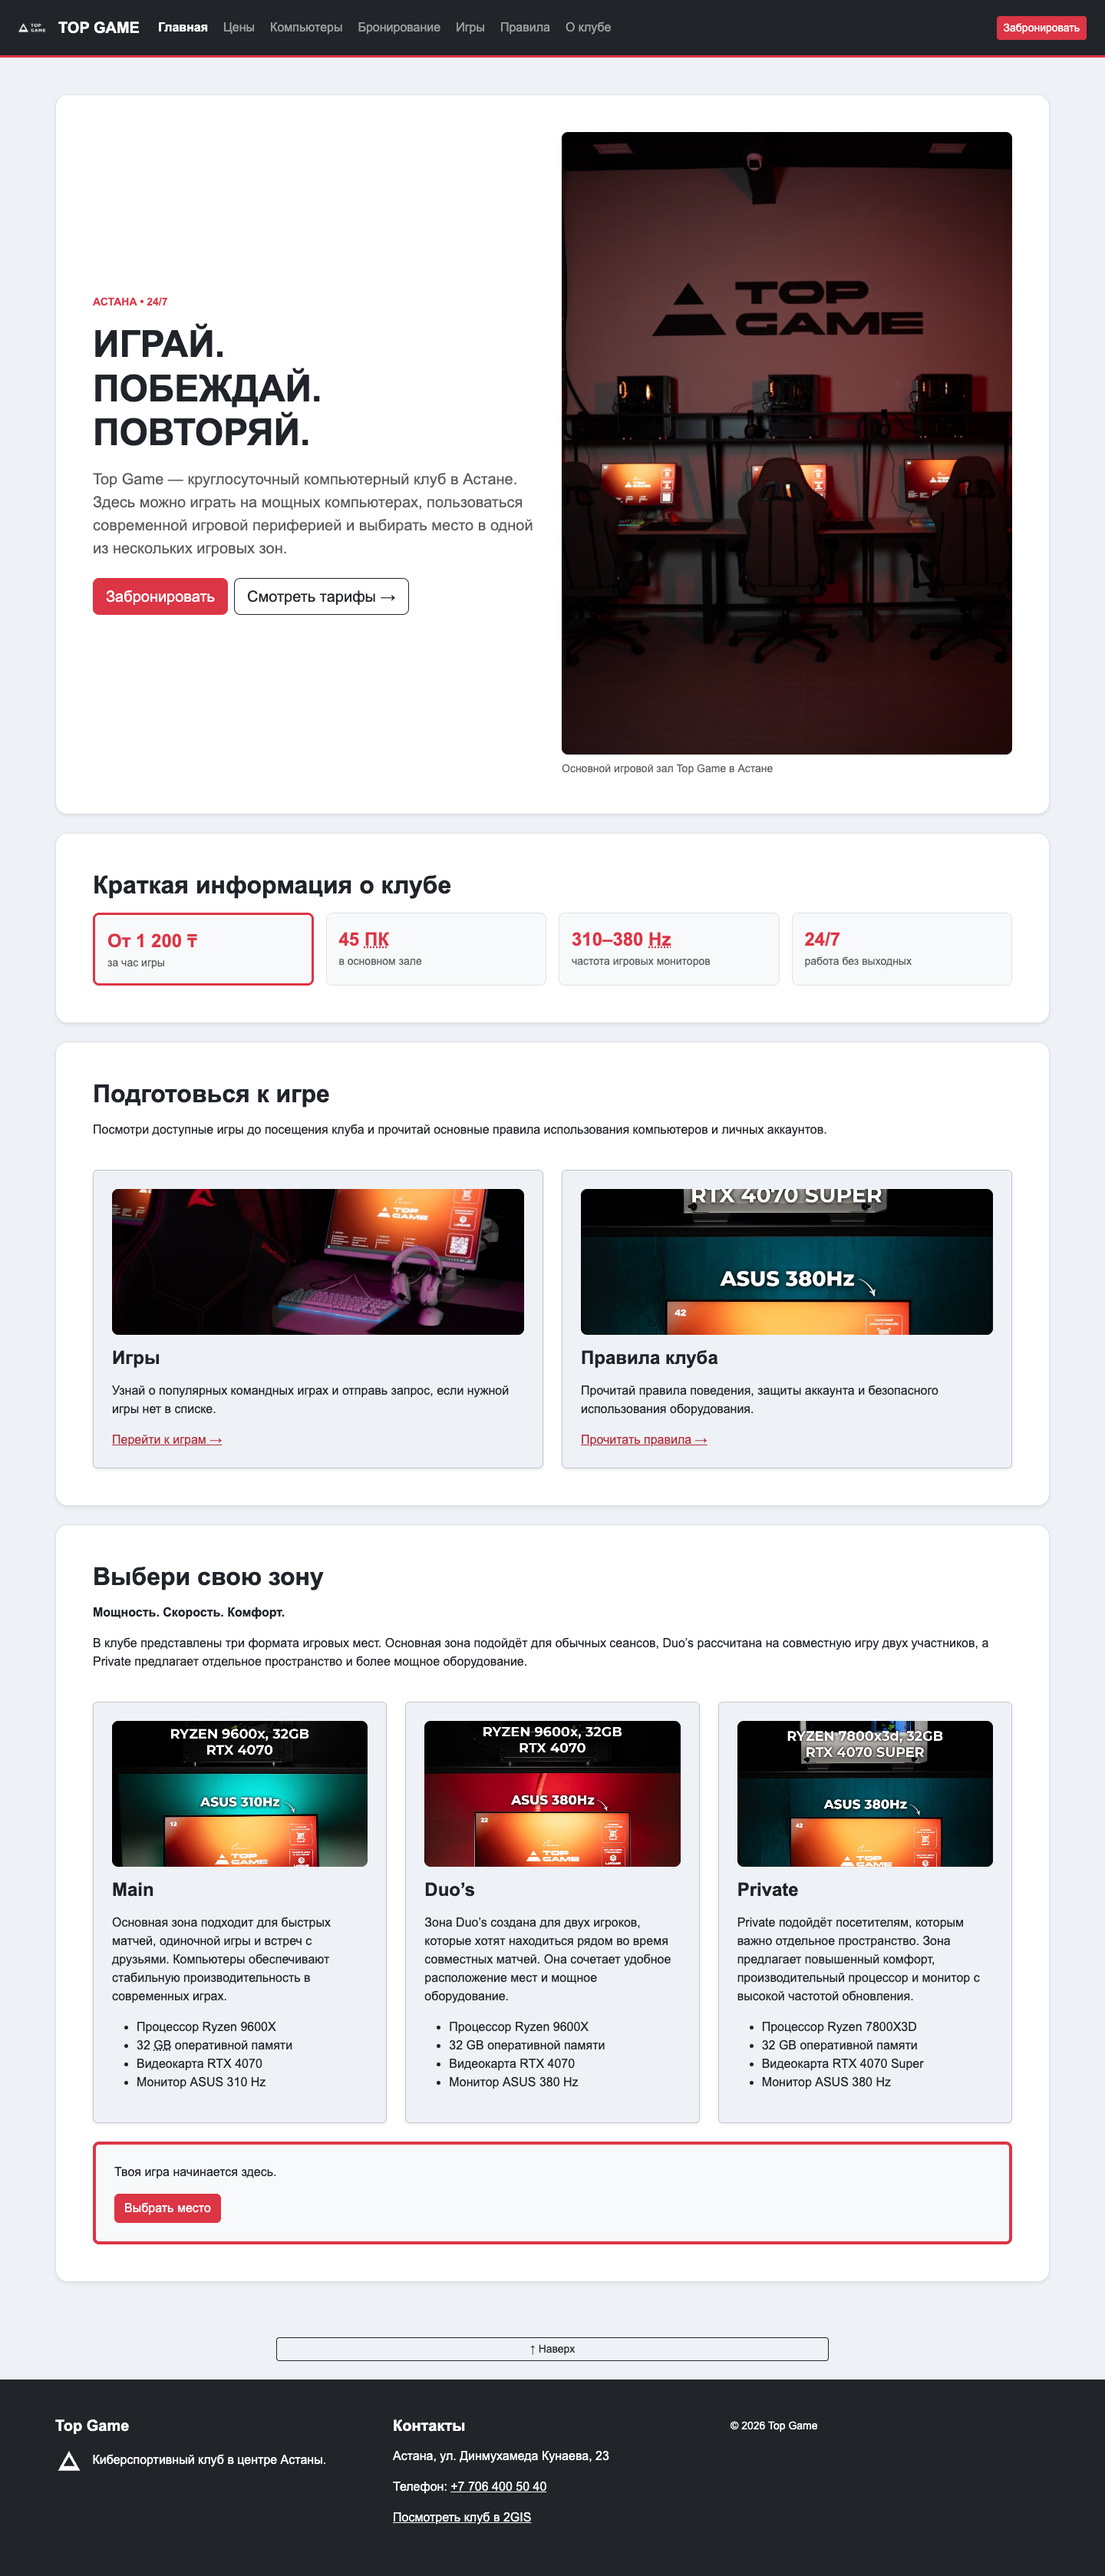
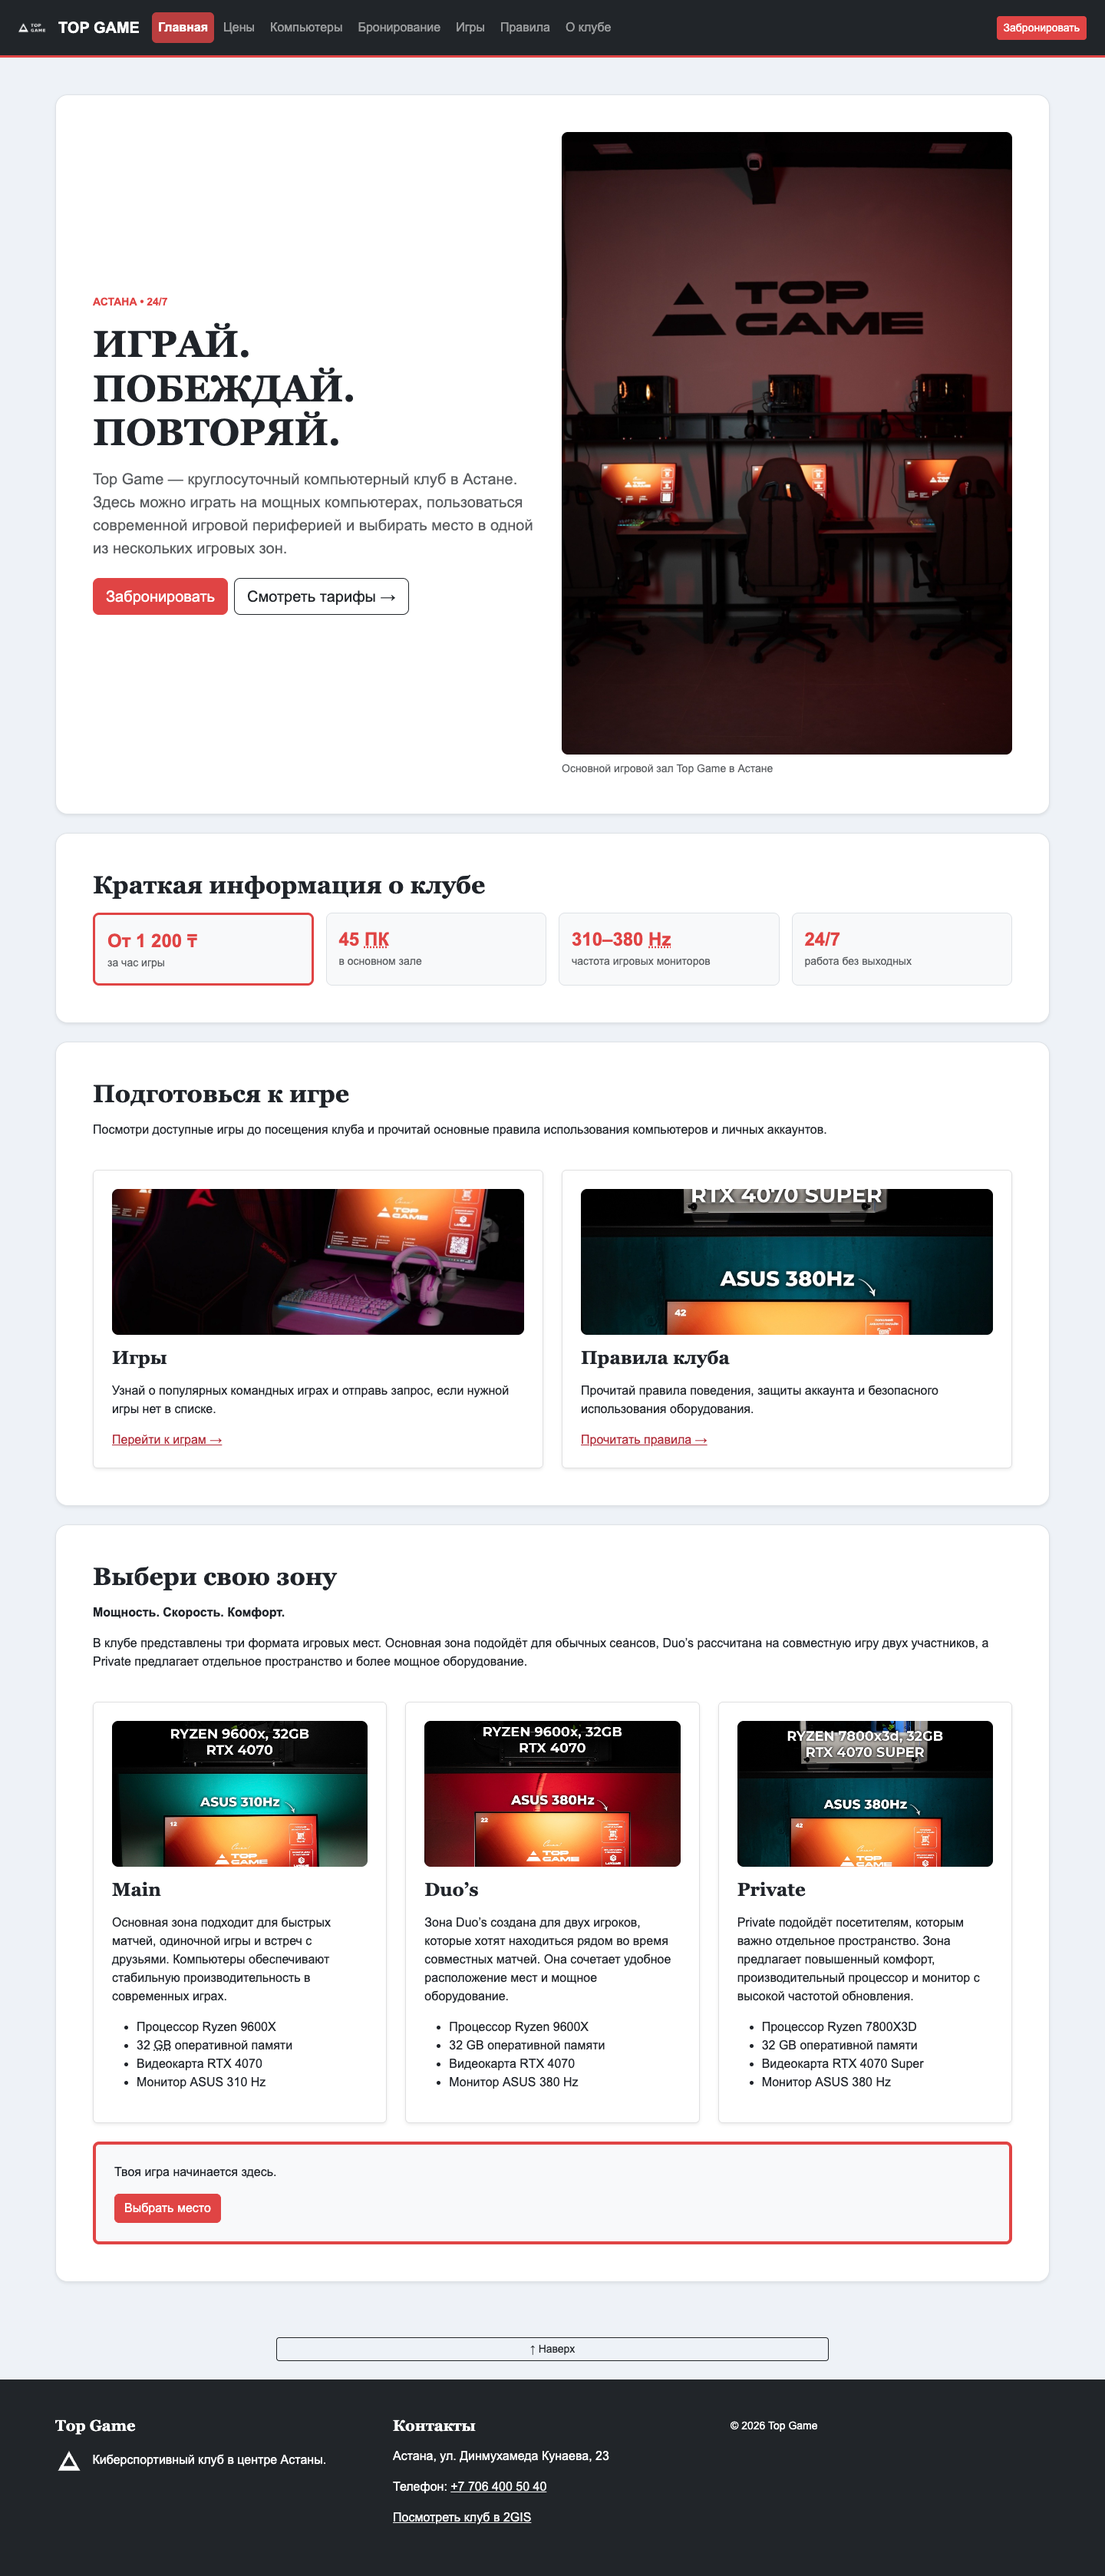
Expand Bootstrap brand styling

diff --git a/css/base.css b/css/base.css
@@ -1,13 +1,76 @@
-/* Bootstrap owns layout, spacing, typography scales, buttons and breakpoints.
-   Only the original club palette/font and a photo correction remain. */
+/* Bootstrap owns layout, spacing, typography scales and breakpoints.
+   These rules add the club's visual identity without rebuilding its grid. */
 :root {
     --bs-body-bg: #eef2f7;
     --bs-body-color: #20242a;
     --bs-body-font-family: Arial, Helvetica, sans-serif;
+    --bs-danger-rgb: 224, 68, 68;
     --bs-link-color: #b02a37;
     --bs-link-color-rgb: 176, 42, 55;
     --bs-link-hover-color: #842029;
     --bs-link-hover-color-rgb: 132, 32, 41;
+}
+
+/* Keep the club's original serif display font for headings. */
+h1,
+h2,
+h3,
+.card-title {
+    font-family: Georgia, "Times New Roman", serif;
+}
+
+/* Use the club red for primary actions and provide a clear hover shade. */
+.btn-danger {
+    --bs-btn-bg: #e04444;
+    --bs-btn-border-color: #e04444;
+    --bs-btn-hover-bg: #c93838;
+    --bs-btn-hover-border-color: #c93838;
+    --bs-btn-active-bg: #b02a37;
+    --bs-btn-active-border-color: #b02a37;
+}
+
+/* Match outlined actions to the same palette. */
+.btn-outline-danger {
+    --bs-btn-color: #b02a37;
+    --bs-btn-border-color: #b02a37;
+    --bs-btn-hover-bg: #b02a37;
+    --bs-btn-hover-border-color: #b02a37;
+}
+
+/* A subtle club-red highlight makes navigation states easy to spot. */
+.navbar .nav-link {
+    border-radius: var(--bs-border-radius);
+    transition: color 150ms ease, background-color 150ms ease;
+}
+
+.navbar .nav-link:hover,
+.navbar .nav-link:focus-visible,
+.navbar .nav-link.active {
+    color: #fff;
+    background-color: rgba(var(--bs-danger-rgb), 0.8);
+}
+
+/* Bootstrap cards use a light gray surface by default; keep content white. */
+.card {
+    --bs-card-bg: #fff;
+    --bs-card-border-color: rgba(32, 36, 42, 0.14);
+}
+
+/* Carry the brand color into focused form controls and selected checkboxes. */
+.form-control:focus,
+.form-select:focus {
+    border-color: #e04444;
+    box-shadow: 0 0 0 0.25rem rgba(224, 68, 68, 0.2);
+}
+
+.form-check-input:checked {
+    background-color: #e04444;
+    border-color: #e04444;
+}
+
+::selection {
+    color: #fff;
+    background-color: #b02a37;
 }
 
 /* The existing about-page photo needs darkening for readable white text.
